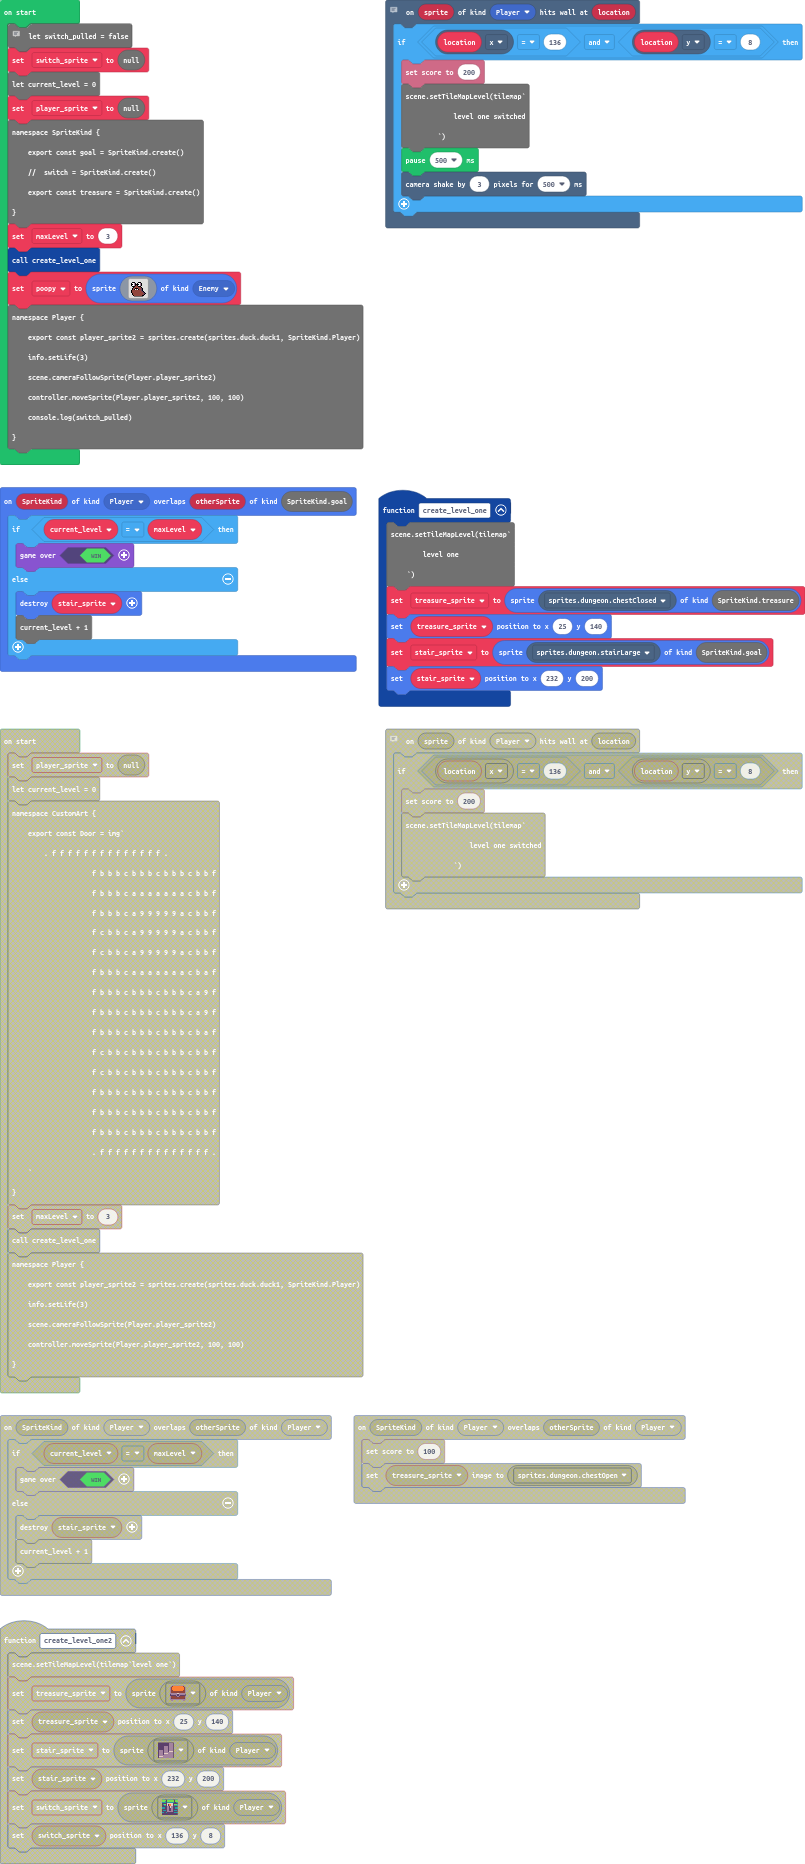
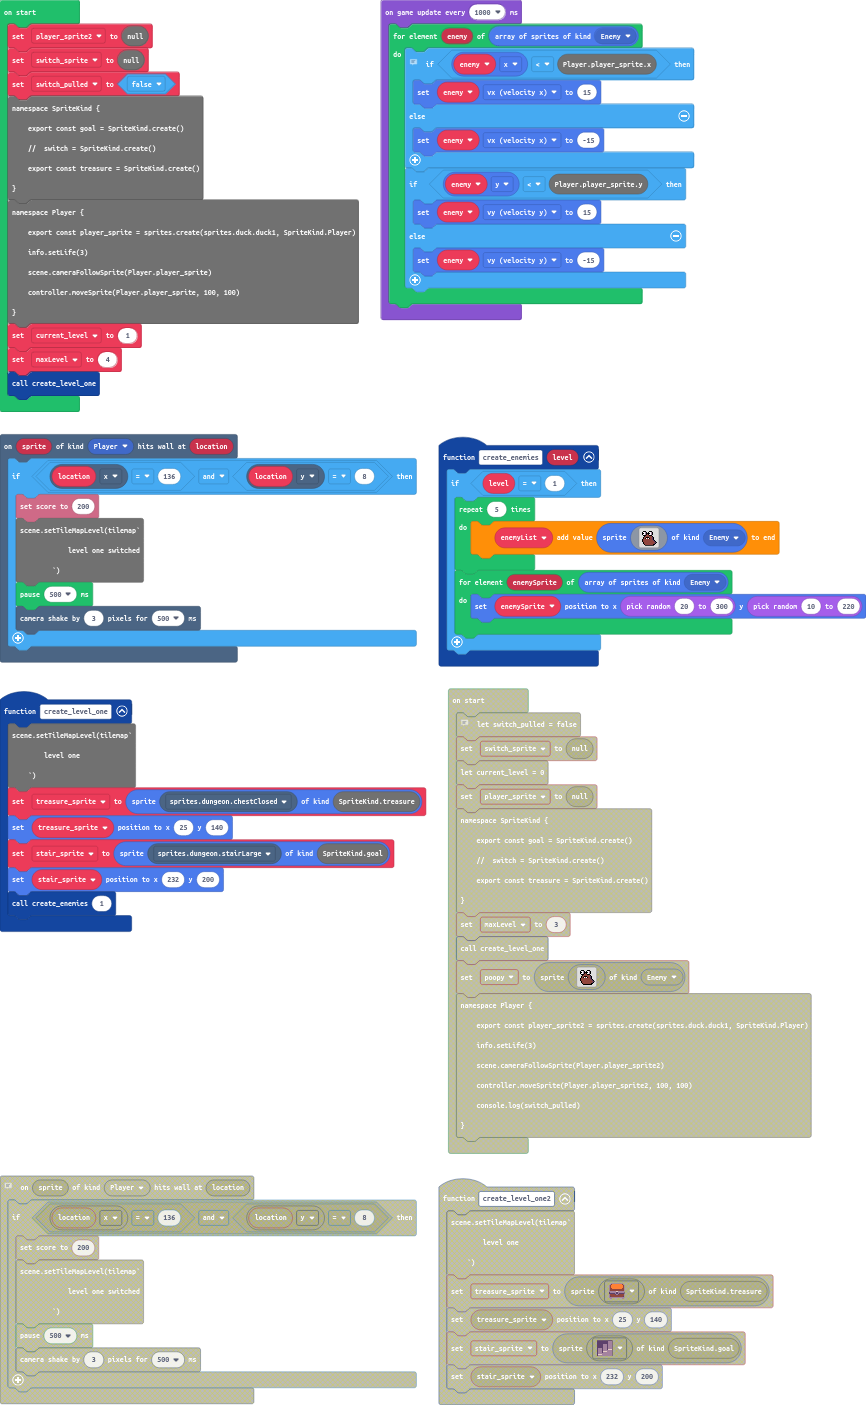
treasure collision fixed

diff --git a/main.ts b/main.ts
@@ -1,4 +1,9 @@
-//  level.load(loadedLevel)
+namespace SpriteKind {
+    export const goal = SpriteKind.create()
+    //  switch = SpriteKind.create()
+    export const treasure = SpriteKind.create()
+}
+
 scene.onHitWall(SpriteKind.Player, function on_hit_wall(sprite: Sprite, location: tiles.Location) {
     if (location.x == 136 && location.y == 8) {
         info.setScore(200)
@@ -10,7 +15,22 @@ scene.onHitWall(SpriteKind.Player, function on_hit_wall(sprite: Sprite, location
     }
     
 })
-sprites.onOverlap(SpriteKind.Player, SpriteKind.goal, function on_on_overlap_goal(SpriteKind: Sprite, otherSprite: Sprite) {
+function create_enemies(level: number) {
+    let enemyList : Sprite[] = []
+    if (level == 1) {
+        for (let index = 0; index < 5; index++) {
+            enemyList.push(sprites.create(assets.image`
+                poopy left
+            `, SpriteKind.Enemy))
+        }
+        for (let enemySprite of sprites.allOfKind(SpriteKind.Enemy)) {
+            enemySprite.setPosition(Math.randomRange(20, 300), Math.randomRange(10, 220))
+        }
+    }
+    
+}
+
+sprites.onOverlap(SpriteKind.Player, SpriteKind.goal, function on_on_overlap_stairs(SpriteKind: Sprite, otherSprite: Sprite) {
     if (current_level == maxLevel) {
         game.over(true)
     } else {
@@ -18,6 +38,10 @@ sprites.onOverlap(SpriteKind.Player, SpriteKind.goal, function on_on_overlap_goa
         current_level + 1
     }
     
+})
+sprites.onOverlap(SpriteKind.Player, SpriteKind.treasure, function on_on_overlap_treasure(SpriteKind: Sprite, otherSprite: Sprite) {
+    info.setScore(100)
+    treasure_sprite.setImage(sprites.dungeon.chestOpen)
 })
 function create_level_one() {
     
@@ -34,25 +58,10 @@ function create_level_one() {
 let treasure_sprite : Sprite = null
 let stair_sprite : Sprite = null
 let maxLevel = 0
-function create_enemies(level: number) {
-    let enemyList = []
-    if (level == 1) {
-        for (let i = 0; i < 5; i++) {
-            enemyList.push(sprites.create(assets.image`
-                poopy left
-            `, SpriteKind.Enemy))
-        }
-        for (let enemySprite of sprites.allOfKind(SpriteKind.Enemy)) {
-            enemySprite.setPosition(Math.randomRange(20, 300), Math.randomRange(10, 220))
-        }
-    }
-    
-}
-
-let switch_pulled = false
-let switch_sprite = null
 let current_level = 0
 let player_sprite = null
+let switch_sprite = null
+let switch_pulled = false
 game.onUpdateInterval(1000, function on_update_interval() {
     for (let enemy of sprites.allOfKind(SpriteKind.Enemy)) {
         //  follow the player
@@ -70,19 +79,13 @@ game.onUpdateInterval(1000, function on_update_interval() {
         
     }
 })
-namespace SpriteKind {
-    export const goal = SpriteKind.create()
-    //  switch = SpriteKind.create()
-    export const treasure = SpriteKind.create()
-}
-
-maxLevel = 3
+current_level = 1
+maxLevel = 4
 create_level_one()
 namespace Player {
     export const player_sprite = sprites.create(sprites.duck.duck1, SpriteKind.Player)
     info.setLife(3)
     scene.cameraFollowSprite(Player.player_sprite)
     controller.moveSprite(Player.player_sprite, 100, 100)
-    console.log(switch_pulled)
 }
 

diff --git a/main.py b/main.py
@@ -1,4 +1,8 @@
-# level.load(loadedLevel)
+@namespace
+class SpriteKind:
+    goal = SpriteKind.create()
+    # switch = SpriteKind.create()
+    treasure = SpriteKind.create()
 
 def on_hit_wall(sprite, location):
     if location.x == 136 and location.y == 8:
@@ -10,13 +14,29 @@ def on_hit_wall(sprite, location):
         scene.camera_shake(3, 500)
 scene.on_hit_wall(SpriteKind.player, on_hit_wall)
 
-def on_on_overlap_goal(SpriteKind, otherSprite):
+def create_enemies(level: number):
+    enemyList: List[Sprite] = []
+    if level == 1:
+        for index in range(5):
+            enemyList.append(sprites.create(assets.image("""
+                poopy left
+            """), SpriteKind.enemy))
+        for enemySprite in sprites.all_of_kind(SpriteKind.enemy):
+            enemySprite.set_position(Math.random_range(20, 300), Math.random_range(10, 220))
+
+def on_on_overlap_stairs(SpriteKind, otherSprite):
     if current_level == maxLevel:
         game.over(True)
     else:
         stair_sprite.destroy()
         current_level + 1
-sprites.on_overlap(SpriteKind.player, SpriteKind.goal, on_on_overlap_goal)
+sprites.on_overlap(SpriteKind.player, SpriteKind.goal, on_on_overlap_stairs)
+
+def on_on_overlap_treasure(SpriteKind, otherSprite):
+    info.set_score(100)
+    treasure_sprite.set_image(sprites.dungeon.chest_open)
+sprites.on_overlap(SpriteKind.player, SpriteKind.treasure, on_on_overlap_treasure)
+
 
 def create_level_one():
     global treasure_sprite, stair_sprite
@@ -32,45 +52,33 @@ def create_level_one():
 treasure_sprite: Sprite = None
 stair_sprite: Sprite = None
 maxLevel = 0
-def create_enemies(level: int):
-    enemyList = []
-    if (level == 1):
-        for i in range(5):
-            enemyList.push(sprites.create(assets.image("""
-                poopy left
-            """), SpriteKind.Enemy))
-        for enemySprite in sprites.allOfKind(SpriteKind.Enemy):
-            enemySprite.setPosition(Math.randomRange(20, 300), Math.randomRange(10, 220));
-switch_pulled = False
-switch_sprite = None
 current_level = 0
 player_sprite = None
+switch_sprite = None
+switch_pulled = False
+
 
 def on_update_interval():
-    for enemy in sprites.allOfKind(SpriteKind.Enemy):
-           # follow the player
-            if (enemy.x < Player.player_sprite.x):
-                enemy.vx = 15
-            else:
-                enemy.vx = -15
-            if (enemy.y < Player.player_sprite.y):
-                enemy.vy = 15
-            else:
-                enemy.vy = -15
-            
+    for enemy in sprites.all_of_kind(SpriteKind.enemy):
+        # follow the player
+        if enemy.x < Player.player_sprite.x:
+            enemy.vx = 15
+        else:
+            enemy.vx = -15
+        if enemy.y < Player.player_sprite.y:
+            enemy.vy = 15
+        else:
+            enemy.vy = -15
 game.on_update_interval(1000, on_update_interval)
 
-@namespace
-class SpriteKind:
-    goal = SpriteKind.create()
-    # switch = SpriteKind.create()
-    treasure = SpriteKind.create()
-maxLevel = 3
+current_level = 1
+maxLevel = 4
 create_level_one()
+
 @namespace
 class Player:
     player_sprite = sprites.create(sprites.duck.duck1, SpriteKind.player)
     info.set_life(3)
     scene.camera_follow_sprite(Player.player_sprite)
     controller.move_sprite(Player.player_sprite, 100, 100)
-    print(switch_pulled)
+
